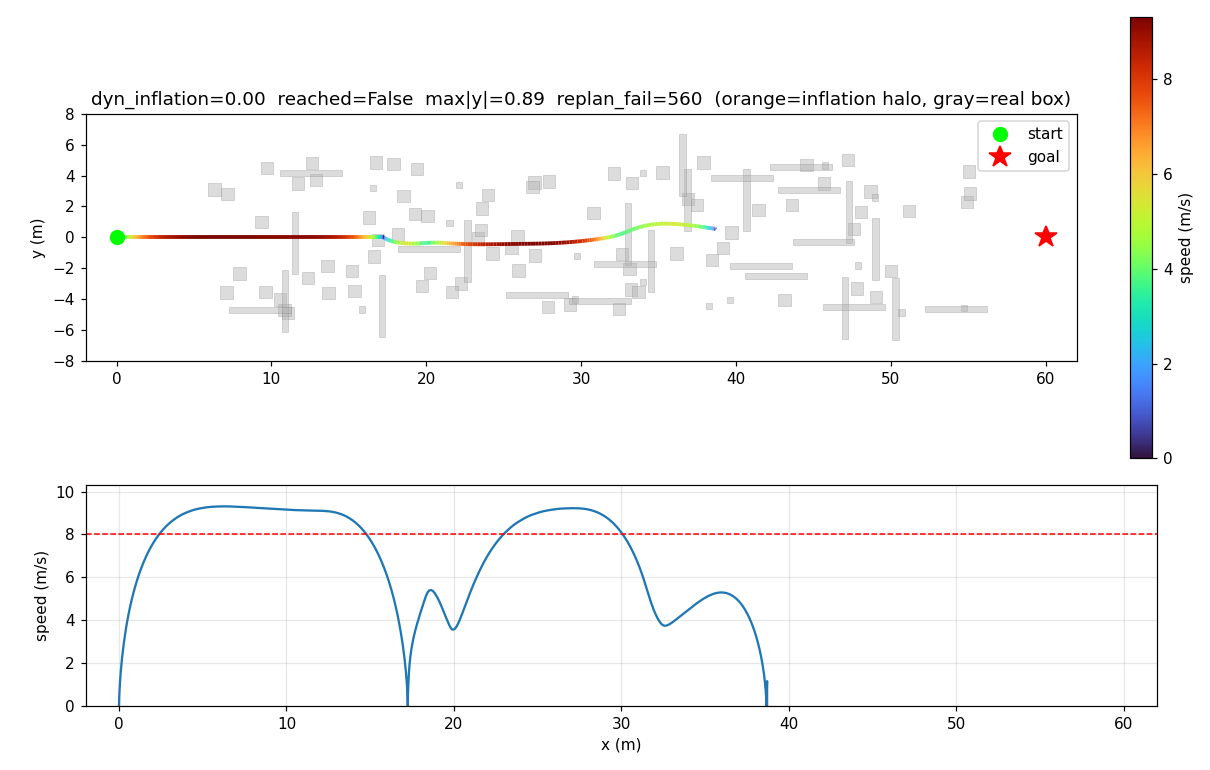
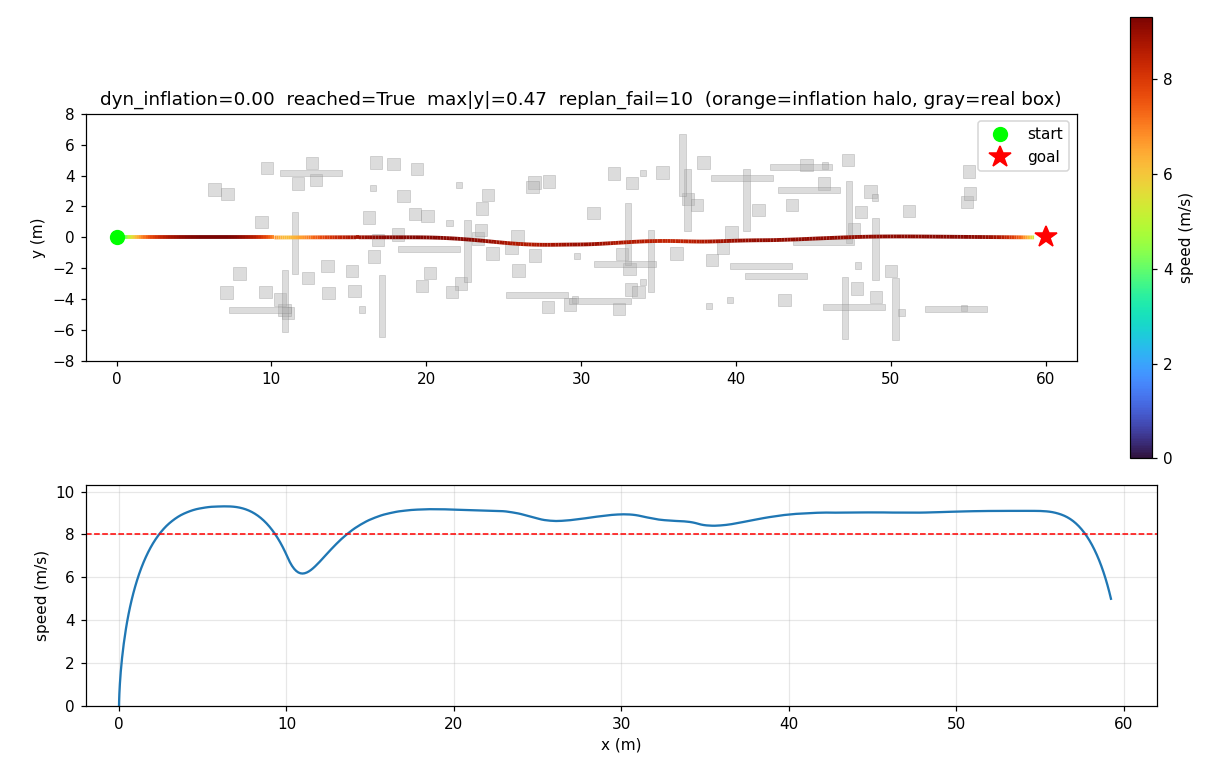
fix(cpp): class-source id-range overflow misclassified the 100th+ wall as a HARD human -> stall
Snapshot class source was (200 <= id < 300) ? wall : human. make_dt assigns wall id=200+i, so with
>100 obstacles the 100th+ wall gets id>=300 and was silently classified as a HARD human. Those ~20
phantom-hard boxes blocked the local solve -> plan_minco clearance_violation every tick -> the drone
FROZE (the stall / cannot-reach at INFL=0 the user saw; retime did not help because it was clearance,
not vel/accel). Fix: id>=200 -> wall (supports >100 walls).

Result at dyn_base_inflation_m=0: was stuck@38.3 / 208 replan-fails / did-not-reach; now THREADS the
cluster (max|y|=0.47, straight through the gaps) and REACHES x=59.3 in ~7.3s / 5-10 fails. So the
route-around / stall was largely this class-source placeholder bug, not a fundamental local threading
limit. ctest 19/19 still pass (no golden used id>=300 humans). Debt remains: id-range is still a
placeholder; the proper fix is an explicit class field on DynTraj.

diff --git a/python/_diag_stall.py b/python/_diag_stall.py
@@ -1,0 +1,46 @@
+"""WHY does it stall at INFL=0? Diagnosis: global path is fine (gN>0), drone has clearance, but
+local plan_minco fails every tick at full 200ms budget. Soft walls don't gate clearance -> the
+failure must be velocity/acceleration overshoot (huge minco_w_time=2500 pushes the threading
+trajectory past v_max/a_max). minco_retime_overshoot would DILATE time (slow down) instead of
+failing - but the yaml never enables it. Test: retime OFF vs ON at INFL=0.
+Run: python _diag_stall.py"""
+import os, sys, time
+import numpy as np
+ROOT = os.path.dirname(os.path.abspath(__file__)); sys.path.insert(0, ROOT)
+import _speed_bench as B
+from sando_cpp_bridge import RobotState, SANDO
+
+
+def run(retime, infl=0.0, t_max=26.0):
+    par, START, GOAL, OBS, LOOP = B.build()
+    par.dyn_base_inflation_m = float(infl)
+    par.minco_retime_overshoot = bool(retime)
+    DTS = [B.make_dt(i, o) for i, o in enumerate(OBS)]
+    sando = SANDO(par)
+    st = RobotState(); st.pos = START.copy(); sando.update_state(st)
+    sando.update_occupancy_map_ptr(np.zeros((0, 3)))
+    G = RobotState(); G.pos = GOAL.copy(); sando.set_terminal_goal(G)
+    DT = float(par.dc); RD = float(LOOP["replan_dt"]); cull = float(LOOP.get("sense_cull_r", 40.0))
+    p = START.copy(); v = np.zeros(3); a = np.zeros(3); t = 0.0; nr = 0.0; last_rt = 0.0
+    nstep = 0; nfail = 0; reached = False; maxy = 0.0
+    while t < t_max and nstep < 6000 and not reached:
+        if t >= nr - 1e-9:
+            st = RobotState(); st.pos = p.copy(); st.vel = v.copy(); st.accel = a.copy(); sando.update_state(st)
+            for d in DTS:
+                if np.linalg.norm(d.eval(t) - p) <= cull: sando.add_traj(d, t)
+            ret = sando.replan(last_rt, t)
+            if not int(ret[0] if isinstance(ret, tuple) else ret): nfail += 1
+            nr = t + RD
+        okg, ng = sando.get_next_goal()
+        if okg: p = np.asarray(ng.pos, float); v = np.asarray(ng.vel, float); a = np.asarray(ng.accel, float)
+        maxy = max(maxy, abs(p[1])); t += DT; nstep += 1
+        if float(np.linalg.norm(p - GOAL)) < float(par.goal_radius): reached = True
+    return dict(retime=retime, reached=reached, final_x=float(p[0]), maxy=maxy, nfail=nfail, t=t)
+
+
+print("=== INFL=0 (try to thread). Does enabling minco_retime_overshoot un-stall it? ===")
+for rt in (False, True):
+    r = run(rt)
+    print(f"  retime={str(rt):5s} | reached={str(r['reached']):5s} | final_x={r['final_x']:5.1f} | "
+          f"max|y|={r['maxy']:.2f} | replan_fail={r['nfail']:4d} | t={r['t']:.1f}")
+print("\nif retime=True reaches (vs retime=False stuck) -> the stall is vel/accel overshoot, fixed by retiming.")

diff --git a/cpp/include/sando_cpp/planner.hpp b/cpp/include/sando_cpp/planner.hpp
@@ -478,7 +478,10 @@ class SANDO {
       opos.push_back(p);
       obbox.push_back(t.bbox);
       int tid = t.id;
-      oclass.push_back((200 <= tid && tid < 300) ? "wall" : "human");
+      // class source (placeholder): id>=200 -> wall (soft), else human (hard). Was [200,300)
+      // which silently misclassified the 100th+ wall (id>=300) as a HARD human -> the local solve
+      // could not thread past those phantom-hard boxes -> stall. id>=200 supports >100 walls.
+      oclass.push_back((tid >= 200) ? "wall" : "human");
       ovel.push_back(t.velocity(current_time));
       oaccel.push_back(t.accel(current_time));
       selected.push_back(t);
